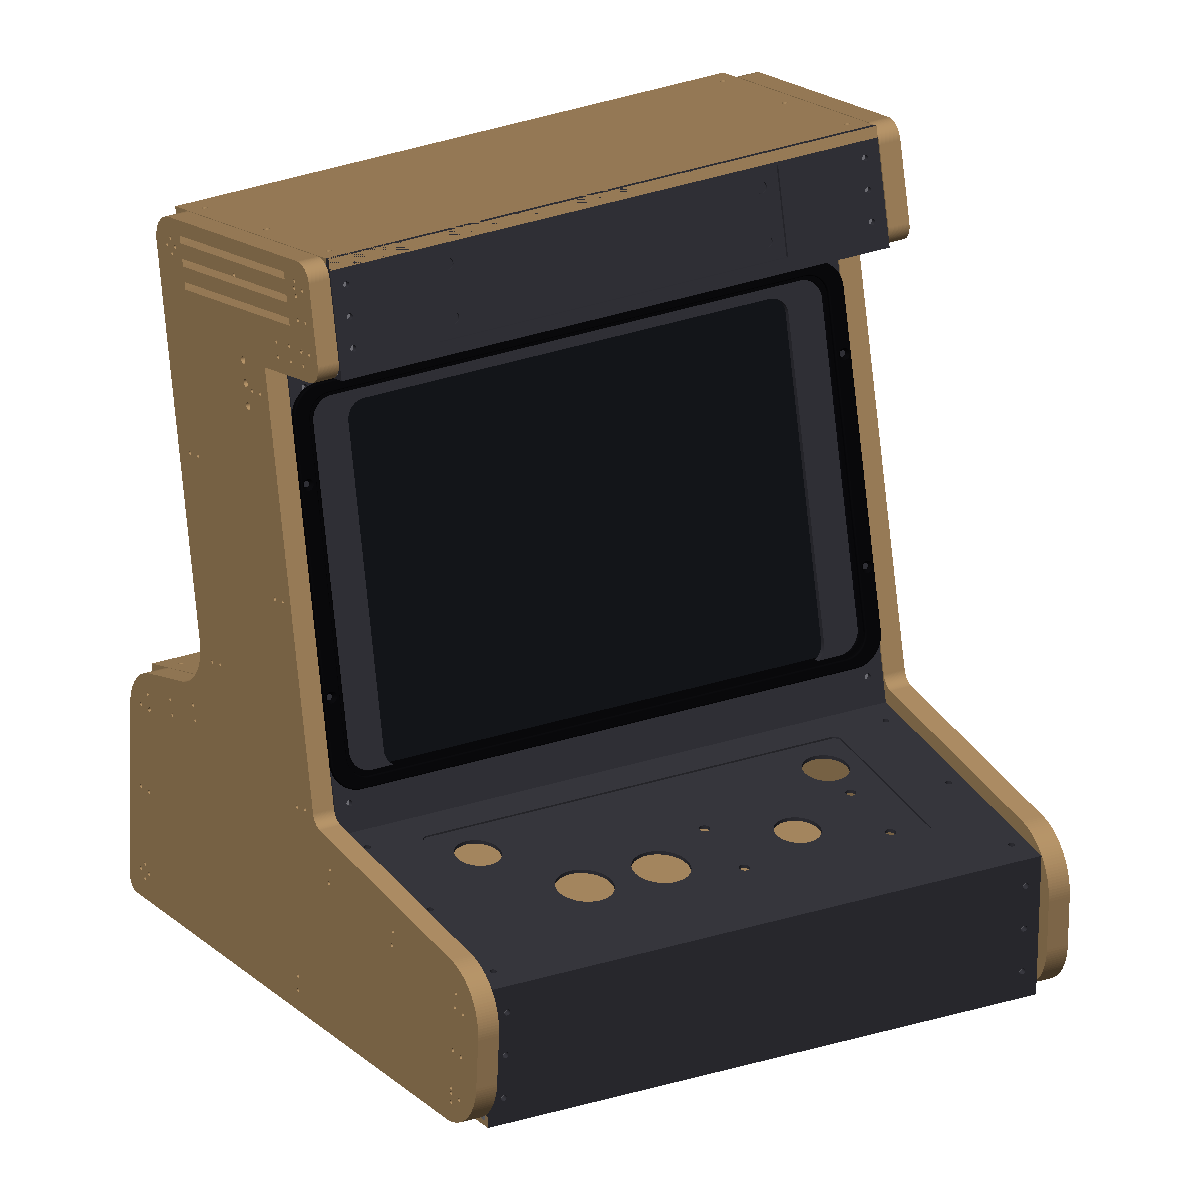
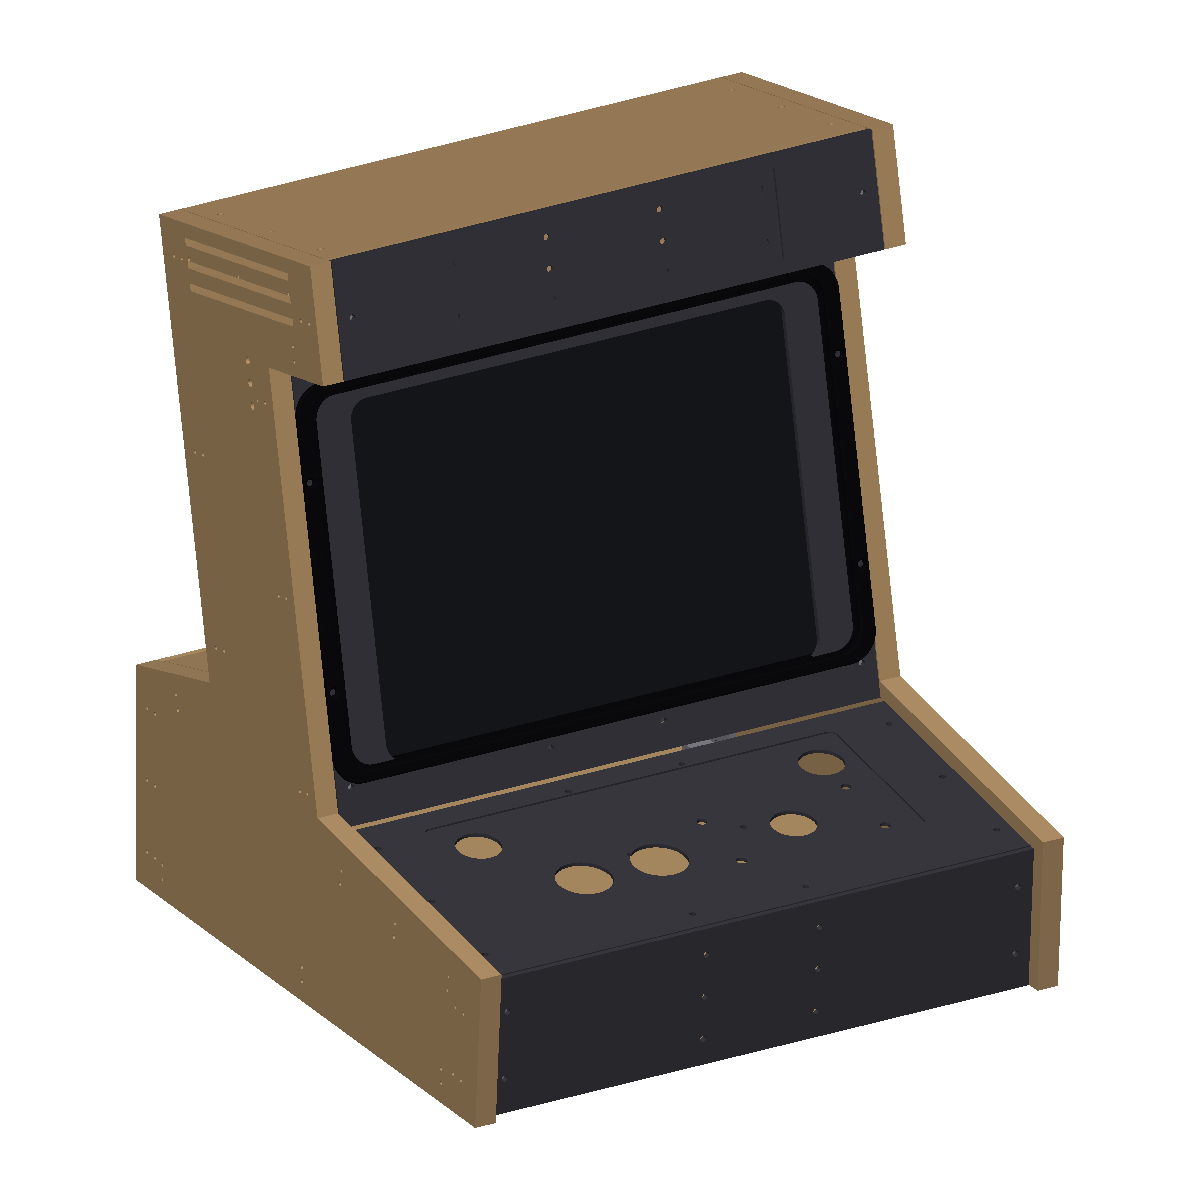
hardware: fix hybrid corner clashes (lap joints, station inset, guard)
- wrap panels now lap at corners: even segments shorten by
  t/sin(turn)+0.5mm at convex vertices so odd segments pass through —
  previously adjacent panels collided in the corner wedge (latent in the
  metal flat-pack too, noted for a later panels.py fix)
- cleat end stations inset 20mm with tiered counts on short segments so
  cleats never cross the neighboring panel band
- wood sides keep sharp corners (rounded outline left panel tips poking
  past the silhouette); round physical edges with a router instead
- hybrid.py main now runs a boolean collision guard over all panels +
  cleats (0 overlaps) on every build

diff --git a/hardware/hybrid.py b/hardware/hybrid.py
@@ -15,9 +15,14 @@ only the parts that need curves or precision are 3D printed.
                60 corner cleats (L-brackets: wood screws into the side,
                M3 heat-set insert under the panel)
 
-Joinery: printed L-cleats at 3 stations per panel end (the same stations
-the metal flat-pack's flanges use). No glue, fully reversible, identical
-fastener pattern for wood and printed panels.
+Joinery: printed L-cleats at 3 stations per panel end. No glue, fully
+reversible, identical fastener pattern for wood and printed panels.
+
+Corner rule (learned from the collision probe): wrap panels meet at LAP
+joints — even-index segments are shortened at each end so the odd segments
+pass through the corner (butt joint, easy jigsaw cuts; the exterior corner
+line is untouched because both outer faces lie on the profile). Without
+this, adjacent panels and their cleats collide in the corner wedges.
 
 Display stack in hybrid v1: the face panel is FLAT (no 12 mm dish), so the
 CRT bezel bonds to the face with VHB tape, the PC window bonds behind the
@@ -70,6 +75,13 @@ HYB = {
     "panel_inset": 0.5,          # panel end reveal from the wood inner face
     "wood_panels": ("bottom", "back", "taper", "neck", "top"),
     "print_panels": ("nose", "deck", "face", "marquee", "lip"),
+    # --- lap joints ---------------------------------------------------------
+    "lap_parity": 0,             # even segments shorten, odd pass through
+    "lap_clearance": 0.5,        # mm gap at the butt end of a lapped panel
+    # cleat end stations must keep the whole 24 mm cleat clear of the
+    # corner band (the adjacent panel's thickness reaches ~t/sin(turn)
+    # along this segment): 12 (half cleat) + 6 (thickest neighbor) + margin
+    "cleat_end_inset": 20.0,
     # --- cleats (printed L-brackets) --------------------------------------
     "cleat_leg": 18.0,           # mm each leg reaches from the corner
     "cleat_len": 24.0,           # mm along the profile segment
@@ -102,31 +114,85 @@ def panel_width():
     return CAB["cabinet_width"] - 2 * HYB["wood_side_t"] - 2 * HYB["panel_inset"]
 
 
-def stations(length):
-    half = length / 2
-    inset = PP["screw_end_inset"]
-    return (-half + inset, 0.0, half - inset)
-
-
 def cleat_x():
     """|x| of the cleat panel-leg center (screw axis through the panel)."""
     return x_face() - HYB["cleat_leg"] / 2
 
 
+# --- lap joints --------------------------------------------------------------
+
+def turn_angles(segs):
+    """Per vertex i (= profile point i = start of segment i): the turn
+    angle between segment i-1 and segment i. Positive = convex corner
+    (interior-contested — panels would collide); negative = reflex."""
+    turns = []
+    n = len(segs)
+    for i in range(n):
+        e_prev = segs[i - 1][3]
+        e_next = segs[i][3]
+        cross = e_prev[0] * e_next[1] - e_prev[1] * e_next[0]
+        dot = e_prev[0] * e_next[0] + e_prev[1] * e_next[1]
+        turns.append(math.atan2(cross, dot))
+    return turns
+
+
+def lap_depth(idx, names, turns):
+    """How much an even-index panel shortens at EACH end so its neighbors
+    pass through the corner: neighbor thickness / sin(turn) (distance along
+    our segment from the vertex to the neighbor's inner-face line) plus a
+    hair of clearance. Symmetric (max of both ends) so panel centers and
+    feature frames stay put. Reflex corners: no contest, no lap."""
+    if idx % 2 != HYB["lap_parity"]:
+        return 0.0
+    n = len(names)
+    d = 0.0
+    for v in (idx, (idx + 1) % n):  # vertex A (start) and vertex B (end)
+        th = turns[v]
+        if th > 1e-6:
+            # vertex v joins segments v-1 and v; the neighbor of idx at
+            # vertex A (v == idx) is segment idx-1, at vertex B it is
+            # segment idx+1 (== v)
+            nb = names[(v - 1) % n] if v == idx else names[v]
+            d = max(d, panel_t(nb) / math.sin(th))
+    d = d + (HYB["lap_clearance"] if d > 0 else 0.0)
+    assert d < 40.0, f"lap depth {d:.1f} mm implausible — check turn angles"
+    return d
+
+
+def stations(idx, length):
+    """Cleat/screw stations along segment idx, segment-center-relative,
+    measured on the SHORTENED panel. Fewer stations on short segments so
+    cleats (24 mm long) never overlap each other or a corner band."""
+    d = lap_depth(idx, PANEL_NAMES, TURNS)
+    s = (length - 2 * d) / 2 - HYB["cleat_end_inset"]
+    if s >= 25.0:
+        return (-s, 0.0, s)
+    if s >= 13.0:
+        return (-s, s)
+    return (0.0,)
+
+
+# module-level geometry context (set in main before any panel work)
+PANEL_NAMES = []
+TURNS = []
+
+
 # --- wood panels (one sketch feeds both the 3D part and the DXF) ------------
 
-def wood_panel_sketch(name, length):
-    """Flat cut pattern: outline + cleat screw holes + feature holes.
-
-    Sketch frame: X across the cabinet, Y along the profile segment
-    (A -> B) — the same mapping panel_features() uses, so wood and printed
-    panel holes coincide."""
+def wood_panel_sketch(name, idx, length):
+    """Flat cut pattern: (lap-shortened) outline + cleat screw holes +
+    feature holes. Sketch frame: X across the cabinet, Y along the profile
+    segment (A -> B). Feature mapping matches panels.panel_features (full,
+    unshortened length) so wood and printed panel holes coincide."""
     p = CAB
-    w, half = panel_width(), length / 2
+    w = panel_width()
+    d = lap_depth(idx, PANEL_NAMES, TURNS)
+    short = length - 2 * d
+    half = length / 2  # feature frame: full segment length
     with BuildSketch() as sk:
-        Rectangle(w, length)
+        Rectangle(w, short)
         for sx in (-1, 1):
-            for st in stations(length):
+            for st in stations(idx, length):
                 with Locations((sx * cleat_x(), st)):
                     Circle(PP["screw_hole_dia"] / 2, mode=Mode.SUBTRACT)
         if name == "bottom":
@@ -162,8 +228,8 @@ def wood_panel_sketch(name, length):
     return sk
 
 
-def make_wood_panel(name, a, b, length, e, n_in):
-    sk = wood_panel_sketch(name, length)
+def make_wood_panel(name, idx, a, b, length, e, n_in):
+    sk = wood_panel_sketch(name, idx, length)
     t = HYB["wood_panel_t"]
     panel = extrude(sk.sketch, amount=t / 2, both=True)
     return sk, panels.place_panel(panel, a, b, e, n_in, t)
@@ -185,14 +251,12 @@ def make_wood_side(side, segs, names):
         with BuildLine():
             Polyline(pts, close=True)
         make_face()
-        for idx, radius in radii.items():
-            if radius is None:
-                continue
-            y, z = pts[idx]
-            vtx = sk.vertices().filter_by(
-                lambda v, y=y, z=z: abs(v.X - y) < 1.0 and abs(v.Y - z) < 1.0
-            )
-            fillet(vtx, radius=radius)
+        # NOTE: the outline stays SHARP (like the metal flat-pack side
+        # plates) — the wrap panels span vertex to vertex, so a rounded
+        # outline would leave panel tips poking past the silhouette (or
+        # open corner gaps if the panels were trimmed). Round the physical
+        # edges with a router (R3-6) after cutting, or add printed corner
+        # caps (v1.1, doubles as the corner-seam trim).
         # side-vent gills (same raked hood-zone positions as the shell)
         tilt = math.radians(p["display_tilt_deg"])
         sin_t, cos_t = math.sin(tilt), math.cos(tilt)
@@ -212,10 +276,10 @@ def make_wood_side(side, segs, names):
         for i, name in enumerate(names):
             a, b, length, e, n_in = segs[i]
             tp = panel_t(name)
-            for off in stations(length):
-                for d in (tp + 5.0, tp + 13.0):
-                    py = (a[0] + b[0]) / 2 + e[0] * off + n_in[0] * d
-                    pz = (a[1] + b[1]) / 2 + e[1] * off + n_in[1] * d
+            for off in stations(i, length):
+                for dd in (tp + 5.0, tp + 13.0):
+                    py = (a[0] + b[0]) / 2 + e[0] * off + n_in[0] * dd
+                    pz = (a[1] + b[1]) / 2 + e[1] * off + n_in[1] * dd
                     with Locations((py, pz)):
                         Circle(HYB["side_pilot_dia"] / 2, mode=Mode.SUBTRACT)
     plate = extrude(sk.sketch, amount=t / 2, both=True)
@@ -224,22 +288,36 @@ def make_wood_side(side, segs, names):
 
 # --- printed wrap panels -------------------------------------------------------
 
-def make_print_panel(name, a, b, length, e, n_in):
-    """3 mm wrap panel spanning between the wood sides; features from
-    panels.panel_features with the screw stations moved onto the cleats."""
+def make_print_panel(name, idx, a, b, length, e, n_in):
+    """3 mm wrap panel spanning between the wood sides. Features come from
+    panels.panel_features in the FULL segment frame (its own flange screw
+    holes are pushed off-panel — hybrid panels screw into cleats instead);
+    lap cuts shorten the ends; screw holes are re-added at the cleat
+    stations."""
     t = HYB["print_t"]
     w = panel_width()
+    d = lap_depth(idx, PANEL_NAMES, TURNS)
     saved = dict(PP)
     try:
         PP["panel_thickness"] = t
-        # panel_features puts screw clearances on the (metal) flange
-        # centerline; redirect them onto the cleat panel-leg centerline
-        PP["flange_width"] = 2 * (CAB["cabinet_width"] / 2 - t - cleat_x())
+        PP["flange_width"] = 400.0  # panel_features' flange holes miss entirely
         local = Box(w, length, t)
         local = panels.panel_features(name, local, length)
     finally:
         PP.clear()
         PP.update(saved)
+    # lap cuts
+    if d > 0:
+        for sy in (-1, 1):
+            local -= Pos(0, sy * (length / 2 - d / 2 + 1), 0) * Box(
+                w + 2, d + 2, t + 2
+            )
+    # cleat screw clearances at the (shortened) stations
+    for sx in (-1, 1):
+        for st in stations(idx, length):
+            local -= Pos(sx * cleat_x(), st, 0) * Cylinder(
+                PP["screw_hole_dia"] / 2, t + 2
+            )
     return local, panels.place_panel(local, a, b, e, n_in, t)
 
 
@@ -280,35 +358,37 @@ def place_cleat(cleat, a, b, e, off):
 # --- main ------------------------------------------------------------------------
 
 def main():
+    global PANEL_NAMES, TURNS
     (HYB_DIR / "print").mkdir(parents=True, exist_ok=True)
     (HYB_DIR / "wood").mkdir(parents=True, exist_ok=True)
     profile, _, info = side_profile(CAB)
     segs = seg_data(profile)
-    names = panel_names(profile)
+    PANEL_NAMES = panel_names(profile)
+    TURNS = turn_angles(segs)
 
     wood_parts, print_parts = {}, {}
-    panel_segs = {}  # name -> (a, b, length, e, n_in) for cleats/exploded
+    panel_segs = {}  # name -> (a, b, length, e, n_in)
     side_sks = {}
 
-    for i, name in enumerate(names):
+    for i, name in enumerate(PANEL_NAMES):
         a, b, length, e, n_in = segs[i]
         panel_segs[name] = (a, b, length, e, n_in)
         if name in HYB["wood_panels"]:
-            sk, placed = make_wood_panel(name, a, b, length, e, n_in)
+            sk, placed = make_wood_panel(name, i, a, b, length, e, n_in)
             wood_parts[f"panel_{name}"] = placed
             dxf = ExportDXF()
             dxf.add_shape(sk.face())
             dxf.write(str(HYB_DIR / "wood" / f"panel_{name}.dxf"))
             export_step(placed, str(HYB_DIR / "wood" / f"panel_{name}.step"))
         else:
-            local, placed = make_print_panel(name, a, b, length, e, n_in)
+            local, placed = make_print_panel(name, i, a, b, length, e, n_in)
             print_parts[f"panel_{name}"] = placed
             export_step(placed, str(HYB_DIR / "print" / f"panel_{name}.step"))
             flat = Pos(0, 0, HYB["print_t"] / 2) * local
             export_stl(flat, str(HYB_DIR / "print" / f"panel_{name}.stl"))
 
     for side, sname in ((-1, "l"), (1, "r")):
-        sk, plate = make_wood_side(side, segs, names)
+        sk, plate = make_wood_side(side, segs, PANEL_NAMES)
         side_sks[sname] = sk
         wood_parts[f"side_{sname}"] = plate
         dxf = ExportDXF()
@@ -316,17 +396,20 @@ def main():
         dxf.write(str(HYB_DIR / "wood" / f"side_{sname}.dxf"))
         export_step(plate, str(HYB_DIR / "wood" / f"side_{sname}.step"))
 
-    # cleats: one geometry per (panel thickness, side); 3 stations/segment
+    # cleats: one geometry per (panel thickness, side); stations per segment.
+    # Corner clearance comes from the station inset rule (stations()), so the
+    # exported cleat geometries ARE the placed ones — the guard below checks
+    # the real parts.
     cleats = []
     cleat_geos = {}
-    for i, name in enumerate(names):
+    for i, name in enumerate(PANEL_NAMES):
         a, b, length, e, n_in = segs[i]
         tp = panel_t(name)
         for side in (-1, 1):
             key = (tp, side)
             if key not in cleat_geos:
                 cleat_geos[key] = make_cleat(tp, side)
-            for off in stations(length):
+            for off in stations(i, length):
                 cleats.append(place_cleat(cleat_geos[key], a, b, e, off))
     for (tp, side), geo in cleat_geos.items():
         tag = f"p{tp:.0f}_{'r' if side > 0 else 'l'}"
@@ -344,7 +427,7 @@ def main():
         export_stl(print_oriented(name, part),
                    str(HYB_DIR / "print" / f"{name}.stl"))
 
-    # --- validity + fit report ---------------------------------------------
+    # --- validity report -----------------------------------------------------
     print(f"{'part':16s} {'valid':6s} dims (mm)")
     for name, part in {**wood_parts, **print_parts, **extras}.items():
         ok = part.is_valid and len(part.solids()) == 1
@@ -354,13 +437,33 @@ def main():
         if not ok:
             raise RuntimeError(f"{name} failed validity")
 
+    # --- collision guards (the corner-clash class of bug this file had) -----
+    all_panels = {**wood_parts, **print_parts}
+    fails = []
+    items = list(all_panels.items())
+    for i in range(len(items)):
+        for j in range(i + 1, len(items)):
+            inter = items[i][1] & items[j][1]
+            v = inter.volume if inter else 0.0
+            if v > 0.5:
+                fails.append((items[i][0], items[j][0], round(v, 1)))
+    for cl in cleats:
+        for pname, pp in all_panels.items():
+            inter = cl & pp
+            v = inter.volume if inter else 0.0
+            if v > 0.5:
+                fails.append(("cleat", pname, round(v, 1)))
+    if fails:
+        raise RuntimeError(f"collision guard FAILED: {fails[:8]}")
+    print(f"collision guard: {len(all_panels)} panels x {len(cleats)} "
+          f"cleats — 0 overlaps")
+
     # --- cost + material report ---------------------------------------------
-    cleat_vol = sum(g.volume for g in cleat_geos.values())
     n_cleats = len(cleats)
     per_cleat = {k: v.volume for k, v in cleat_geos.items()}
     cleat_total = sum(
-        per_cleat[(panel_t(n), s)] * 3
-        for n in names for s in (-1, 1)
+        per_cleat[(panel_t(n), s)] * len(stations(i, segs[i][2]))
+        for i, n in enumerate(PANEL_NAMES) for s in (-1, 1)
     )
     print_vols = {n: pt.volume for n, pt in print_parts.items()}
     print_vols.update({n: pt.volume for n, pt in extras.items()})
@@ -378,7 +481,7 @@ def main():
 
     side_area = side_sks["l"].face().area
     wood_panel_area = sum(
-        wood_panel_sketch(n, panel_segs[n][2]).face().area
+        wood_panel_sketch(n, PANEL_NAMES.index(n), panel_segs[n][2]).face().area
         for n in HYB["wood_panels"]
     )
     side_mass = 2 * side_area * HYB["wood_side_t"] * HYB["birch_density"]
@@ -387,7 +490,7 @@ def main():
           f"({side_mass:.0f} g), panels {wood_panel_area / 1e2:.0f} cm^2 "
           f"@6 mm ({panel_mass:.0f} g)")
     print(f"      total wood ~{(side_mass + panel_mass) / 1000:.2f} kg "
-          f"(+ fasteners; fb print path ~2.1 kg PETG)")
+          f"(+ fasteners)")
 
     # --- renders --------------------------------------------------------------
     face = display_face_plane()

diff --git a/hardware/design-notes.md b/hardware/design-notes.md
@@ -824,3 +824,17 @@ switch, PSU, inserts, feet) — then an assembled render with the enclosure.
   landed on the seam vertices. Known v1 trade-offs: open corner seams
   between wrap panels (corner-trim strip is the likely fix), display
   stack bonds with VHB (no dish/bosses on the flat face panel).
+
+- Hybrid corner fixes (2026-08-26, same branch): the collision guard
+  (panel-panel + cleat-panel booleans, now part of hybrid.py main)
+  caught two real latent bugs: (1) vertex-to-vertex wrap panels collide
+  in corner wedges (~11k mm3 at 90 deg corners — the metal flat-pack
+  has the same clash, noted for a later panels.py fix), fixed with lap
+  joints: even-index segments shorten by neighbor_t/sin(turn)+0.5 mm at
+  convex corners, odd segments pass through; (2) corner-adjacent cleats
+  collided with the neighboring panel band, fixed by a station inset
+  rule (12 + 6 + margin = 20 mm) and tiered station counts on short
+  segments (46 cleats instead of 60). Also: wood sides keep SHARP
+  corners (same as the metal path) — flat panels can't follow a rounded
+  silhouette without their tips poking past it; round physical edges
+  with a router or add printed corner caps later.

diff --git a/docs/HARDWARE.md b/docs/HARDWARE.md
@@ -85,10 +85,13 @@ drill-guide pilot holes for every cleat station.
 | --- | --- |
 | ![hybrid assembled](images/hardware/hybrid_assembled_iso.png) | ![hybrid exploded](images/hardware/hybrid_exploded_iso.png) |
 
-Known trade-offs (hybrid v1): the wrap panels meet at open corners (the
-silhouette radius covers them from the side, but a dark seam shows from
-the front — the metal path welds these; a printed corner-trim strip is
-the likely fix) and the display stack bonds with VHB tape instead of the
+Known trade-offs (hybrid v1): the wrap panels meet at open corners (a dark
+seam line shows from the front — the metal path welds these; printed
+corner-trim caps are the likely fix and would also restore rounded corners)
+and the wood side outline is modeled with SHARP corners, same as the metal
+flat-pack — flat panels can't follow a rounded silhouette without their
+tips poking past it, so round the physical edges with a router (R3–6)
+after cutting. The display stack bonds with VHB tape instead of the
 monocoque's dish + bosses (mechanical anchor pads are a v1.1 item).
 
 ## Chassis architecture (minimal spine-and-sides)
